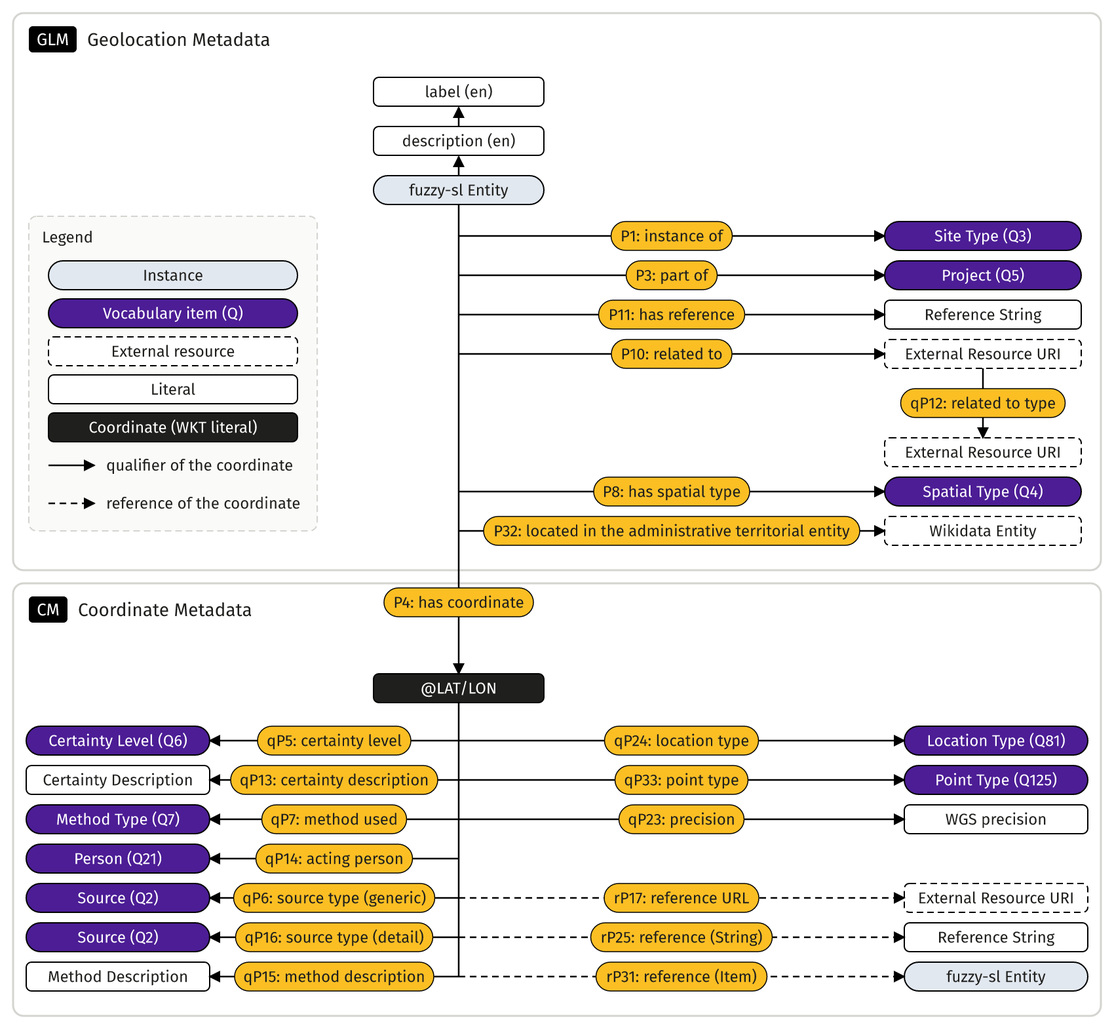
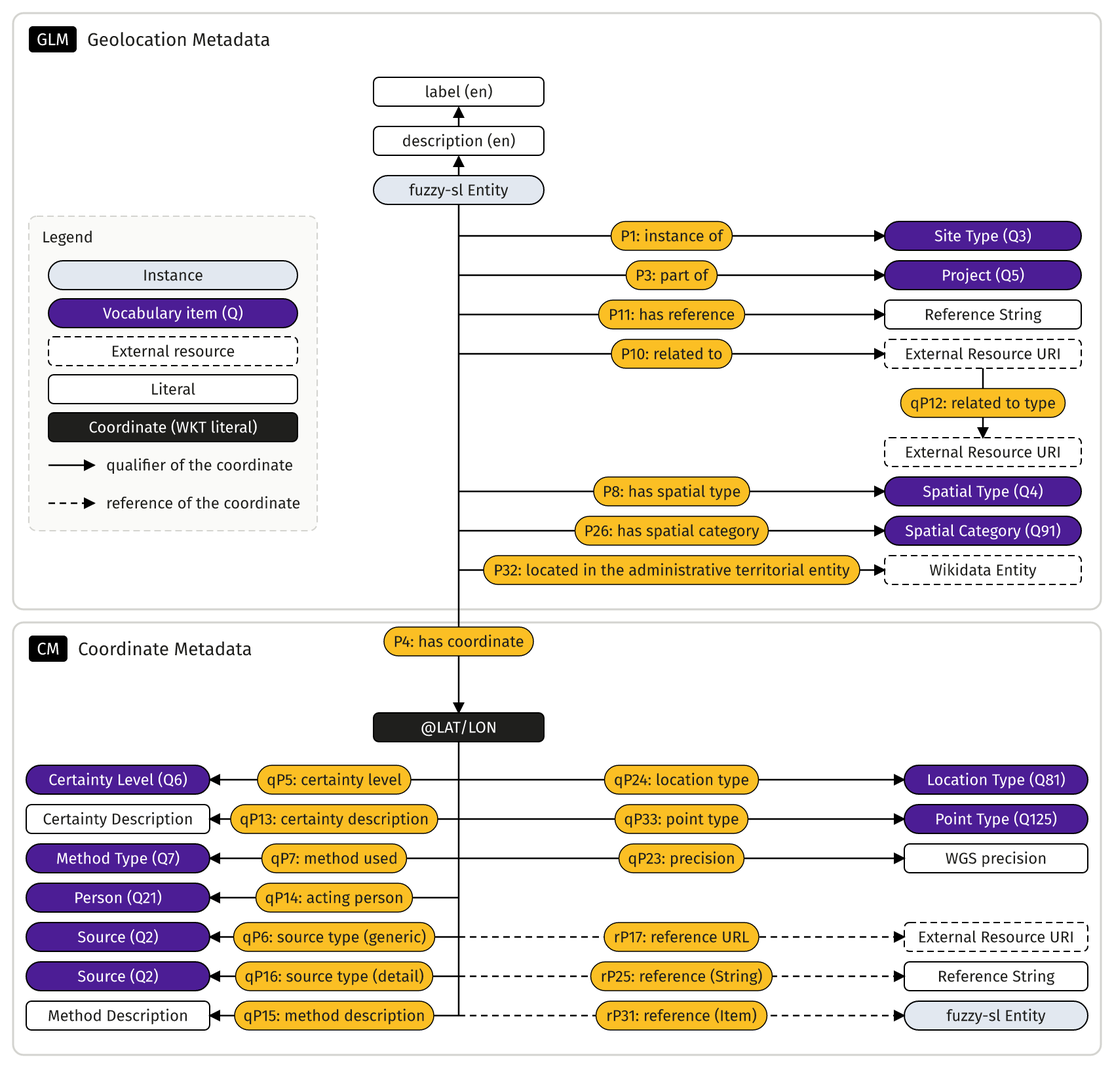
deRSE26: Fig. 3 with P26 spatial category; z2 wraps long Wikidata label
Claude-Session: https://claude.ai/code/session_0145BdeBL6JEDb3HE12Py9VZ

diff --git a/deRSE26/figures/gallery.html b/deRSE26/figures/gallery.html
@@ -14,9 +14,9 @@ figure.new{border-color:#c2410c;background:#fff}figcaption{font-weight:500;color
 #lb{position:fixed;inset:0;background:rgba(0,0,0,.88);display:none;align-items:center;justify-content:center;z-index:9;cursor:zoom-out;overflow:auto}#lb img{max-width:96vw;max-height:96vh;background:#fff}
 @media(max-width:900px){.pair{grid-template-columns:1fr}}
 </style></head><body>
-<header><h1>From Relations to Graphs: figures, submitted and new</h1><div class="meta">deRSE26 / ECEASST, revision of November 2026. Generated 25.11.2026 11:37. Click an image to enlarge, Esc or click to close.</div></header>
+<header><h1>From Relations to Graphs: figures, submitted and new</h1><div class="meta">deRSE26 / ECEASST, revision of November 2026. Generated 25.11.2026 11:42. Click an image to enlarge, Esc or click to close.</div></header>
 <main><table><tr><td><b>No.</b></td><td><b>Figure</b></td><td><b>Section</b></td><td><b>Status</b></td></tr><tr><td><a href="#fig1">Fig. 1</a></td><td>Federated Knowledge Graph Ecosystem</td><td>§1 Introduction</td><td><span class="chip" style="background:#55544f">keep as submitted</span></td></tr><tr><td><a href="#fig2">Fig. 2</a></td><td>Ogham stone in Wikidata and the fuzzy-sl Wikibase</td><td>§5.1 Wikidata</td><td><span class="chip" style="background:#55544f">keep as submitted</span></td></tr><tr><td><a href="#fig3">Fig. 3</a></td><td>Schematic data model of the fuzzy-sl Wikibase</td><td>§5.2 fuzzy-sl</td><td><span class="chip" style="background:#166534">new figure ready</span></td></tr><tr><td><a href="#fig4">Fig. 4</a></td><td>Campanian Ignimbrite findspots in the fuzzy-sl Wikibase</td><td>§5.2 fuzzy-sl</td><td><span class="chip" style="background:#166534">new figure ready</span></td></tr><tr><td><a href="#fig5">Fig. 5</a></td><td>The bb5kbc ontology</td><td>§5.3 BB-5KBC</td><td><span class="chip" style="background:#55544f">keep as submitted</span></td></tr><tr><td><a href="#fig6">Fig. 6</a></td><td>Ontology scheme of the palaeoclimate pipeline</td><td>§5.4 Pipeline</td><td><span class="chip" style="background:#166534">new figure ready</span></td></tr><tr><td><a href="#fig7">Fig. 7</a></td><td>CI instances</td><td>§5.4 Pipeline</td><td><span class="chip" style="background:#166534">new figure ready</span></td></tr><tr><td><a href="#fig8">Fig. 8</a></td><td>Big Exchange meta path</td><td>§5.6 HIN</td><td><span class="chip" style="background:#55544f">keep as submitted</span></td></tr><tr><td><a href="#fig9">Fig. 9</a></td><td>ArNO ontology modules</td><td>§5.7 HIN to KG</td><td><span class="chip" style="background:#55544f">keep as submitted</span></td></tr><tr><td><a href="#fig10">Fig. 10</a></td><td>Mapping of HIN node types to ArNO classes</td><td>§5.7 HIN to KG</td><td><span class="chip" style="background:#9a3412">to do</span></td></tr><tr><td><a href="#z2">Z2</a></td><td>One Ogham stone in five modelling styles</td><td>§3 or §4 (placement open)</td><td><span class="chip" style="background:#b45309">waiting for data</span></td></tr><tr><td><a href="#z3">Z3</a></td><td>Where the showcases are</td><td>§5 (overview)</td><td><span class="chip" style="background:#166534">new figure ready</span></td></tr></table>
-<section id="fig1"><h2><span class="num">Fig. 1</span> Federated Knowledge Graph Ecosystem <span class="chip" style="background:#55544f">keep as submitted</span></h2><p class="sec">§1 Introduction</p><div class="pair"><figure><figcaption>Submitted</figcaption><a href="gallery/old/fkge.jpg" class="zoom "><img loading="lazy" src="gallery/old/fkge.jpg" alt="Federated Knowledge Graph Ecosystem"></a><p class="cap">Scheme of the Federated Knowledge Graph Ecosystem. Licence -- Florian Thiery &amp; Andreas Noback, CC BY 4.0</p></figure><figure class="new none"><figcaption>New</figcaption><div class="empty">no new version yet</div></figure></div><ul><li>Source: thiery_stones_2026, Fig. 1</li><li>Typo &quot;Publikation&quot; in the image (to be fixed at the source)</li></ul></section><section id="fig2"><h2><span class="num">Fig. 2</span> Ogham stone in Wikidata and the fuzzy-sl Wikibase <span class="chip" style="background:#55544f">keep as submitted</span></h2><p class="sec">§5.1 Wikidata</p><div class="pair"><figure><figcaption>Submitted</figcaption><a href="gallery/old/ogham-wikidata.jpg" class="zoom "><img loading="lazy" src="gallery/old/ogham-wikidata.jpg" alt="Ogham stone in Wikidata and the fuzzy-sl Wikibase"></a><p class="cap">Ogham Stone CIIC 81 and its spatial locations in Wikidata and the fuzzy-sl Wikibase. Licence -- Florian Thiery, CC BY 4.0; (A) Wikidata Community, Public Domain; (B) Florian Thiery, CC BY-NC-SA 4.0; (C/E) Research Squirrel Engineers Network, CC BY 4.0; (E) \copyright~\&#x27;O R\&#x27;{\i}ord\&#x27;ain and Ryan; (F) OpenStreetMap Contributors, Open Database License.</p></figure><figure class="new none"><figcaption>New</figcaption><div class="empty">no new version yet</div></figure></div><ul><li>Screenshots; z2 (below) can complement it as a model comparison</li><li>Reviewer C refers to &quot;Section 5, Figure 2&quot;: probably this figure (assumption)</li></ul></section><section id="fig3"><h2><span class="num">Fig. 3</span> Schematic data model of the fuzzy-sl Wikibase <span class="chip" style="background:#166534">new figure ready</span></h2><p class="sec">§5.2 fuzzy-sl</p><div class="pair"><figure><figcaption>Submitted</figcaption><a href="gallery/old/fuzzy-sl_Wikibase.jpg" class="zoom "><img loading="lazy" src="gallery/old/fuzzy-sl_Wikibase.jpg" alt="Schematic data model of the fuzzy-sl Wikibase"></a><p class="cap">Schematic data model of the fuzzy-sl Wikibase. License -- Florian Thiery, CC BY 4.0.</p></figure><figure class="new"><figcaption>New</figcaption><a href="out/fig3_fuzzysl_datamodel.png" class="zoom "><img loading="lazy" src="out/fig3_fuzzysl_datamodel.png" alt="Schematic data model of the fuzzy-sl Wikibase"></a><p class="cap">Data model of the fuzzy-sl Wikibase. (GLM) Geolocation metadata: a fuzzy-sl entity has a label and a description and is described by its instance type (P1), project (P3), literature reference (P11), related external resource with its relation type (P10, qP12), spatial type (P8), the administrative territorial entity in Wikidata (P32) and its coordinate (P4). (CM) Coordinate metadata: the coordinate statement carries ten qualifiers (solid arrows: certainty level and description, method used and description, acting person, source type in generic and detailed form, location type, point type and precision) and three reference properties (dashed arrows: reference URL, reference string, reference item). Grey: instance; purple: vocabulary item with its Q number; dashed outline: external resource; white: literal; black: coordinate. Property labels and classes are those of the static copy of the fuzzy-sl Wikibase. Licence: Florian Thiery, CC BY 4.0.</p></figure></div><ul><li>Redrawn after the old picture (same nodes, properties and arrows); labels, datatypes and classes read from the static Wikibase copy</li><li>Same model as Fig. 4B of Thiery et al. 2026 (JOHD 12:10); the old picture omits P26 (has spatial category), which Q70 carries</li><li>Layout stacked (GLM above CM) because 24 px type needs the width; the old picture placed CM left of GLM</li></ul></section><section id="fig4"><h2><span class="num">Fig. 4</span> Campanian Ignimbrite findspots in the fuzzy-sl Wikibase <span class="chip" style="background:#166534">new figure ready</span></h2><p class="sec">§5.2 fuzzy-sl</p><div class="pair"><figure><figcaption>Submitted</figcaption><a href="gallery/old/ci-fuzzy-sl-wikibase.jpg" class="zoom "><img loading="lazy" src="gallery/old/ci-fuzzy-sl-wikibase.jpg" alt="Campanian Ignimbrite findspots in the fuzzy-sl Wikibase"></a><p class="cap">Geospatial modelling of Campanian Ignimbrite Findspots within the fuzzy-sl Wikibase. Licence -- Florian Thiery &amp; Fiona Schenk, CC BY 4.0; OSM maps: OpenStreetMap Contributors, Open Database License.</p></figure><figure class="new"><figcaption>New</figcaption><a href="out/fig4_ci_findspots.png" class="zoom "><img loading="lazy" src="out/fig4_ci_findspots.png" alt="Campanian Ignimbrite findspots in the fuzzy-sl Wikibase"></a><p class="cap">Campanian Ignimbrite findspots in the geo-lod graph and one coordinate statement in the fuzzy-sl Wikibase. (A) The 74 findspots, distinguished by whether they are typed as archaeological sites (12) or not (62); dashed rings mark 500 km and 1000 km from the Phlegraean Fields, the source area of the eruption. (B) The coordinate statement of Auel Maar AU3 (Q70) with its qualifiers: certainty level and description, method, acting person, source type, precision, location and point type, and the literature reference. Purple: vocabulary terms; grey: items; white: literals. The inset map shows the Eifel around the Auel Maar with rivers, borders, Cologne and Daun. Licence: Florian Thiery and Fiona Schenk, CC BY 4.0; base map: Natural Earth, public domain.</p></figure></div><ul><li>v3: archaeology vs. other, Auel Maar AU3 from the static Wikibase copy, minimap</li><li>Static Wikibase has 19 CI items, the graph 74</li></ul></section><section id="fig5"><h2><span class="num">Fig. 5</span> The bb5kbc ontology <span class="chip" style="background:#55544f">keep as submitted</span></h2><p class="sec">§5.3 BB-5KBC</p><div class="pair"><figure><figcaption>Submitted</figcaption><a href="gallery/old/bb-5kbc-ontology.jpg" class="zoom "><img loading="lazy" src="gallery/old/bb-5kbc-ontology.jpg" alt="The bb5kbc ontology"></a><p class="cap">The bb5kbc Ontology. Licence -- Florian Thiery &amp; Sophie C. Schmidt, CC BY 4.0.</p></figure><figure class="new none"><figcaption>New</figcaption><div class="empty">no new version yet</div></figure></div><ul><li>Check the triple counts against the repository</li></ul></section><section id="fig6"><h2><span class="num">Fig. 6</span> Ontology scheme of the palaeoclimate pipeline <span class="chip" style="background:#166534">new figure ready</span></h2><p class="sec">§5.4 Pipeline</p><div class="pair"><figure><figcaption>Submitted</figcaption><a href="gallery/old/taxonomy.jpg" class="zoom "><img loading="lazy" src="gallery/old/taxonomy.jpg" alt="Ontology scheme of the palaeoclimate pipeline"></a><p class="cap">Ontology Scheme of the Palaeoclimate Data Processing Pipeline (GeoSciece-FAIRification-LOD). Licence -- Florian Thiery &amp; Fiona Schenk, CC BY 4.0.</p></figure><figure class="new"><figcaption>New</figcaption><a href="out/fig6_place_taxonomy.png" class="zoom "><img loading="lazy" src="out/fig6_place_taxonomy.png" alt="Ontology scheme of the palaeoclimate pipeline"></a><p class="cap">Modelling places in the geo-lod ontologies. (A) The place classes and their anchors in CIDOC CRM, CRMarchaeo and fuzzy-sl; hollow arrows are rdfs:subClassOf statements of the ontology files (geo_lod_core.ttl, crm_bridging.ttl, sisal_ontology.ttl, epica_ontology.ttl). Sampling locations (drilling site, borehole, cave) and Campanian Ignimbrite findspots both specialise crm:E27_Site; the archaeological variants additionally inherit from crmarchaeo:A2_Stratigraphic_Volume_Unit. (B) The geometry of a place: a geo:Feature has a geo:Geometry (sf:Point, which CRMgeo reads as a declarative place; its inheritance from geo:Geometry is defined by GeoSPARQL and Simple Features, not by the ontology files) whose coordinates are a geo:wktLiteral. Dark orange: classes of the geo-lod ontologies; white: external classes; amber: property. Licence: Florian Thiery and Fiona Schenk, CC BY 4.0.</p></figure></div><ul><li>Slice: place classes and geometry pattern; the full scheme could move to the supplement</li><li>&quot;GeoSciece&quot; typo disappears with the new figure</li></ul></section><section id="fig7"><h2><span class="num">Fig. 7</span> CI instances <span class="chip" style="background:#166534">new figure ready</span></h2><p class="sec">§5.4 Pipeline</p><div class="pair"><figure><figcaption>Submitted</figcaption><a href="gallery/old/instance_ci.jpg" class="zoom "><img loading="lazy" src="gallery/old/instance_ci.jpg" alt="CI instances"></a><p class="cap">CI Instances Scheme. Licence -- Florian Thiery &amp; Fiona Schenk, CC BY 4.0.</p></figure><figure class="new"><figcaption>New</figcaption><a href="out/fig7_ci_instances.png" class="zoom "><img loading="lazy" src="out/fig7_ci_instances.png" alt="CI instances"></a><p class="cap">Two Campanian Ignimbrite findspots as instances in the geo-lod graph: (A) Toplitsa Cave (Bulgaria, ci:cisite_44) and (B) Franchthi Cave (Greece, ci:cisite_45). Both are typed as fsl:Site and geolod:CIArchaeologicalSite (a selection of their types is shown), carry the geometry as an sf:Point with a geo:asWKT literal and the fuzzy-sl certainty level, certainty description and literature reference, are aligned to Wikidata and OpenStreetMap via skos:closeMatch, and name the pipeline activity that generated them. The coordinate reference system prefix of the WKT literal is omitted. Colours: dark orange classes, purple vocabulary terms, grey instances, white literals. Minimaps: all 74 findspots (filled: archaeological site), the findspot of the panel ringed in red; country borders and major rivers from Natural Earth. Licence: Florian Thiery and Fiona Schenk, CC BY 4.0.</p></figure></div><ul><li>Toplitsa and Franchthi, every value read from the graph</li><li>Text says 9 archaeological sites, the graph has 12</li></ul></section><section id="fig8"><h2><span class="num">Fig. 8</span> Big Exchange meta path <span class="chip" style="background:#55544f">keep as submitted</span></h2><p class="sec">§5.6 HIN</p><div class="pair"><figure><figcaption>Submitted</figcaption><a href="gallery/old/BigExchangeMetaPath.jpg" class="zoom "><img loading="lazy" src="gallery/old/BigExchangeMetaPath.jpg" alt="Big Exchange meta path"></a><p class="cap">The meta path connecting two materials through finds of these materials that are found in sites with geolocations that share a spatially similar geolocation. Licence -- Mattis thor Straten et al., CC BY 4.0.</p></figure><figure class="new none"><figcaption>New</figcaption><div class="empty">no new version yet</div></figure></div><ul><li>From thor Straten et al. (CC BY 4.0); keeps its own look</li></ul></section><section id="fig9"><h2><span class="num">Fig. 9</span> ArNO ontology modules <span class="chip" style="background:#55544f">keep as submitted</span></h2><p class="sec">§5.7 HIN to KG</p><div class="pair"><figure><figcaption>Submitted</figcaption><a href="gallery/old/ARNO.jpg" class="zoom "><img loading="lazy" src="gallery/old/ARNO.jpg" alt="ArNO ontology modules"></a><p class="cap">The ontologies combined in the ArNO ontology grouped by the concept domain they are used for. Licence -- Mattis thor Straten et al., CC BY 4.0.</p></figure><figure class="new none"><figcaption>New</figcaption><div class="empty">no new version yet</div></figure></div><ul><li>Low resolution (644 x 671 px): ask for a better source</li></ul></section><section id="fig10"><h2><span class="num">Fig. 10</span> Mapping of HIN node types to ArNO classes <span class="chip" style="background:#9a3412">to do</span></h2><p class="sec">§5.7 HIN to KG</p><div class="pair"><figure><figcaption>Submitted</figcaption><a href="gallery/old/ARNONetworkSchema.jpg" class="zoom "><img loading="lazy" src="gallery/old/ARNONetworkSchema.jpg" alt="Mapping of HIN node types to ArNO classes"></a><p class="cap">The mapping of the spatial node types of the HIN networks schema (on the right) to the hierarchical ArNO ontology classes. Licence -- Mattis thor Straten et al., CC BY 4.0.</p></figure><figure class="new none"><figcaption>New</figcaption><div class="empty">no new version yet</div></figure></div><ul><li>Redraw or re-use the source after checking the licence</li></ul></section><section id="z2"><h2><span class="num">New Z2</span> One Ogham stone in five modelling styles <span class="chip" style="background:#b45309">waiting for data</span></h2><p class="sec">§3 or §4 (placement open)</p><div class="pair single"><figure class="new"><a href="out/z2_one_stone_five_models.png" class="zoom "><img loading="lazy" src="out/z2_one_stone_five_models.png" alt="One Ogham stone in five modelling styles"></a><p class="cap">One coordinate in five modelling styles, shown for the Ogham stone Coumeenole North (Macalister 1945, textual description). (A) Wikidata: coordinate location with its qualifiers. (B) fuzzy-sl Wikibase: the coordinate statement carries certainty level, method, precision and location type as qualifiers. (C) RDF with GeoSPARQL: the point is a geo:asWKT literal of a geometry resource. (D) Labelled property graph: the point is a property of the node. (E) Heterogeneous information network: the point is a node of its own, so that nearby geolocations can be linked by distance classes. Red outline: where the coordinate sits. Data: Wikidata (CC0), fuzzy-sl Wikibase, Florian Thiery, CC BY 4.0.</p></figure></div><ul><li>Panel A needs data/wd/ from fetch_wd.py (done on the Windows machine)</li></ul></section><section id="z3"><h2><span class="num">New Z3</span> Where the showcases are <span class="chip" style="background:#166534">new figure ready</span></h2><p class="sec">§5 (overview)</p><div class="pair single"><figure class="new"><a href="out/z3_showcase_map.png" class="zoom "><img loading="lazy" src="out/z3_showcase_map.png" alt="Where the showcases are"></a><p class="cap">Where the spatial showcases are. (A) Europe and the Mediterranean: coordinate statements of the fuzzy-sl Wikibase (61; Ogham stones, Roman Britain, Bruttium coin finds, Campanian Ignimbrite and others), the Campanian Ignimbrite findspots of the geo-lod graph (74) and the BB-5KBC findspots (540). (B) The 365 SISAL caves of the geo-lod graph; the red frame marks panel A. The property-graph and HIN showcases are not mapped because they have no point dataset of their own. Base map: Natural Earth, public domain.</p></figure></div><ul><li>Colour = infrastructure (Wikibase vs. bespoke RDF pipeline); LPG and HIN showcases have no point data</li></ul></section><section id="unused"><h2><span class="num">Not used</span> Map of the Moselle (not referenced in the LaTeX source)</h2><div class="pair single"><figure><a href="gallery/old/moselkarte.jpg" class="zoom "><img loading="lazy" src="gallery/old/moselkarte.jpg" alt="Map of the Moselle (not referenced in the LaTeX source)"></a></figure></div><ul><li>Decision pending: drop it or use it as an orientation map</li></ul></section></main>
+<section id="fig1"><h2><span class="num">Fig. 1</span> Federated Knowledge Graph Ecosystem <span class="chip" style="background:#55544f">keep as submitted</span></h2><p class="sec">§1 Introduction</p><div class="pair"><figure><figcaption>Submitted</figcaption><a href="gallery/old/fkge.jpg" class="zoom "><img loading="lazy" src="gallery/old/fkge.jpg" alt="Federated Knowledge Graph Ecosystem"></a><p class="cap">Scheme of the Federated Knowledge Graph Ecosystem. Licence -- Florian Thiery &amp; Andreas Noback, CC BY 4.0</p></figure><figure class="new none"><figcaption>New</figcaption><div class="empty">no new version yet</div></figure></div><ul><li>Source: thiery_stones_2026, Fig. 1</li><li>Typo &quot;Publikation&quot; in the image (to be fixed at the source)</li></ul></section><section id="fig2"><h2><span class="num">Fig. 2</span> Ogham stone in Wikidata and the fuzzy-sl Wikibase <span class="chip" style="background:#55544f">keep as submitted</span></h2><p class="sec">§5.1 Wikidata</p><div class="pair"><figure><figcaption>Submitted</figcaption><a href="gallery/old/ogham-wikidata.jpg" class="zoom "><img loading="lazy" src="gallery/old/ogham-wikidata.jpg" alt="Ogham stone in Wikidata and the fuzzy-sl Wikibase"></a><p class="cap">Ogham Stone CIIC 81 and its spatial locations in Wikidata and the fuzzy-sl Wikibase. Licence -- Florian Thiery, CC BY 4.0; (A) Wikidata Community, Public Domain; (B) Florian Thiery, CC BY-NC-SA 4.0; (C/E) Research Squirrel Engineers Network, CC BY 4.0; (E) \copyright~\&#x27;O R\&#x27;{\i}ord\&#x27;ain and Ryan; (F) OpenStreetMap Contributors, Open Database License.</p></figure><figure class="new none"><figcaption>New</figcaption><div class="empty">no new version yet</div></figure></div><ul><li>Screenshots; z2 (below) can complement it as a model comparison</li><li>Reviewer C refers to &quot;Section 5, Figure 2&quot;: probably this figure (assumption)</li></ul></section><section id="fig3"><h2><span class="num">Fig. 3</span> Schematic data model of the fuzzy-sl Wikibase <span class="chip" style="background:#166534">new figure ready</span></h2><p class="sec">§5.2 fuzzy-sl</p><div class="pair"><figure><figcaption>Submitted</figcaption><a href="gallery/old/fuzzy-sl_Wikibase.jpg" class="zoom "><img loading="lazy" src="gallery/old/fuzzy-sl_Wikibase.jpg" alt="Schematic data model of the fuzzy-sl Wikibase"></a><p class="cap">Schematic data model of the fuzzy-sl Wikibase. License -- Florian Thiery, CC BY 4.0.</p></figure><figure class="new"><figcaption>New</figcaption><a href="out/fig3_fuzzysl_datamodel.png" class="zoom "><img loading="lazy" src="out/fig3_fuzzysl_datamodel.png" alt="Schematic data model of the fuzzy-sl Wikibase"></a><p class="cap">Data model of the fuzzy-sl Wikibase. (GLM) Geolocation metadata: a fuzzy-sl entity has a label and a description and is described by its instance type (P1), project (P3), literature reference (P11), related external resource with its relation type (P10, qP12), spatial type (P8), spatial category (P26), the administrative territorial entity in Wikidata (P32) and its coordinate (P4). (CM) Coordinate metadata: the coordinate statement carries ten qualifiers (solid arrows: certainty level and description, method used and description, acting person, source type in generic and detailed form, location type, point type and precision) and three reference properties (dashed arrows: reference URL, reference string, reference item). Grey: instance; purple: vocabulary item with its Q number; dashed outline: external resource; white: literal; black: coordinate. Property labels and classes are those of the static copy of the fuzzy-sl Wikibase. Licence: Florian Thiery, CC BY 4.0.</p></figure></div><ul><li>Redrawn after the old picture (same nodes, properties and arrows); labels, datatypes and classes read from the static Wikibase copy</li><li>Same model as Fig. 4B of Thiery et al. 2026 (JOHD 12:10); P26 (has spatial category) added because the old picture omitted it</li><li>Layout stacked (GLM above CM) because 24 px type needs the width; the old picture placed CM left of GLM</li></ul></section><section id="fig4"><h2><span class="num">Fig. 4</span> Campanian Ignimbrite findspots in the fuzzy-sl Wikibase <span class="chip" style="background:#166534">new figure ready</span></h2><p class="sec">§5.2 fuzzy-sl</p><div class="pair"><figure><figcaption>Submitted</figcaption><a href="gallery/old/ci-fuzzy-sl-wikibase.jpg" class="zoom "><img loading="lazy" src="gallery/old/ci-fuzzy-sl-wikibase.jpg" alt="Campanian Ignimbrite findspots in the fuzzy-sl Wikibase"></a><p class="cap">Geospatial modelling of Campanian Ignimbrite Findspots within the fuzzy-sl Wikibase. Licence -- Florian Thiery &amp; Fiona Schenk, CC BY 4.0; OSM maps: OpenStreetMap Contributors, Open Database License.</p></figure><figure class="new"><figcaption>New</figcaption><a href="out/fig4_ci_findspots.png" class="zoom "><img loading="lazy" src="out/fig4_ci_findspots.png" alt="Campanian Ignimbrite findspots in the fuzzy-sl Wikibase"></a><p class="cap">Campanian Ignimbrite findspots in the geo-lod graph and one coordinate statement in the fuzzy-sl Wikibase. (A) The 74 findspots, distinguished by whether they are typed as archaeological sites (12) or not (62); dashed rings mark 500 km and 1000 km from the Phlegraean Fields, the source area of the eruption. (B) The coordinate statement of Auel Maar AU3 (Q70) with its qualifiers: certainty level and description, method, acting person, source type, precision, location and point type, and the literature reference. Purple: vocabulary terms; grey: items; white: literals. The inset map shows the Eifel around the Auel Maar with rivers, borders, Cologne and Daun. Licence: Florian Thiery and Fiona Schenk, CC BY 4.0; base map: Natural Earth, public domain.</p></figure></div><ul><li>v3: archaeology vs. other, Auel Maar AU3 from the static Wikibase copy, minimap</li><li>Static Wikibase has 19 CI items, the graph 74</li></ul></section><section id="fig5"><h2><span class="num">Fig. 5</span> The bb5kbc ontology <span class="chip" style="background:#55544f">keep as submitted</span></h2><p class="sec">§5.3 BB-5KBC</p><div class="pair"><figure><figcaption>Submitted</figcaption><a href="gallery/old/bb-5kbc-ontology.jpg" class="zoom "><img loading="lazy" src="gallery/old/bb-5kbc-ontology.jpg" alt="The bb5kbc ontology"></a><p class="cap">The bb5kbc Ontology. Licence -- Florian Thiery &amp; Sophie C. Schmidt, CC BY 4.0.</p></figure><figure class="new none"><figcaption>New</figcaption><div class="empty">no new version yet</div></figure></div><ul><li>Check the triple counts against the repository</li></ul></section><section id="fig6"><h2><span class="num">Fig. 6</span> Ontology scheme of the palaeoclimate pipeline <span class="chip" style="background:#166534">new figure ready</span></h2><p class="sec">§5.4 Pipeline</p><div class="pair"><figure><figcaption>Submitted</figcaption><a href="gallery/old/taxonomy.jpg" class="zoom "><img loading="lazy" src="gallery/old/taxonomy.jpg" alt="Ontology scheme of the palaeoclimate pipeline"></a><p class="cap">Ontology Scheme of the Palaeoclimate Data Processing Pipeline (GeoSciece-FAIRification-LOD). Licence -- Florian Thiery &amp; Fiona Schenk, CC BY 4.0.</p></figure><figure class="new"><figcaption>New</figcaption><a href="out/fig6_place_taxonomy.png" class="zoom "><img loading="lazy" src="out/fig6_place_taxonomy.png" alt="Ontology scheme of the palaeoclimate pipeline"></a><p class="cap">Modelling places in the geo-lod ontologies. (A) The place classes and their anchors in CIDOC CRM, CRMarchaeo and fuzzy-sl; hollow arrows are rdfs:subClassOf statements of the ontology files (geo_lod_core.ttl, crm_bridging.ttl, sisal_ontology.ttl, epica_ontology.ttl). Sampling locations (drilling site, borehole, cave) and Campanian Ignimbrite findspots both specialise crm:E27_Site; the archaeological variants additionally inherit from crmarchaeo:A2_Stratigraphic_Volume_Unit. (B) The geometry of a place: a geo:Feature has a geo:Geometry (sf:Point, which CRMgeo reads as a declarative place; its inheritance from geo:Geometry is defined by GeoSPARQL and Simple Features, not by the ontology files) whose coordinates are a geo:wktLiteral. Dark orange: classes of the geo-lod ontologies; white: external classes; amber: property. Licence: Florian Thiery and Fiona Schenk, CC BY 4.0.</p></figure></div><ul><li>Slice: place classes and geometry pattern; the full scheme could move to the supplement</li><li>&quot;GeoSciece&quot; typo disappears with the new figure</li></ul></section><section id="fig7"><h2><span class="num">Fig. 7</span> CI instances <span class="chip" style="background:#166534">new figure ready</span></h2><p class="sec">§5.4 Pipeline</p><div class="pair"><figure><figcaption>Submitted</figcaption><a href="gallery/old/instance_ci.jpg" class="zoom "><img loading="lazy" src="gallery/old/instance_ci.jpg" alt="CI instances"></a><p class="cap">CI Instances Scheme. Licence -- Florian Thiery &amp; Fiona Schenk, CC BY 4.0.</p></figure><figure class="new"><figcaption>New</figcaption><a href="out/fig7_ci_instances.png" class="zoom "><img loading="lazy" src="out/fig7_ci_instances.png" alt="CI instances"></a><p class="cap">Two Campanian Ignimbrite findspots as instances in the geo-lod graph: (A) Toplitsa Cave (Bulgaria, ci:cisite_44) and (B) Franchthi Cave (Greece, ci:cisite_45). Both are typed as fsl:Site and geolod:CIArchaeologicalSite (a selection of their types is shown), carry the geometry as an sf:Point with a geo:asWKT literal and the fuzzy-sl certainty level, certainty description and literature reference, are aligned to Wikidata and OpenStreetMap via skos:closeMatch, and name the pipeline activity that generated them. The coordinate reference system prefix of the WKT literal is omitted. Colours: dark orange classes, purple vocabulary terms, grey instances, white literals. Minimaps: all 74 findspots (filled: archaeological site), the findspot of the panel ringed in red; country borders and major rivers from Natural Earth. Licence: Florian Thiery and Fiona Schenk, CC BY 4.0.</p></figure></div><ul><li>Toplitsa and Franchthi, every value read from the graph</li><li>Text says 9 archaeological sites, the graph has 12</li></ul></section><section id="fig8"><h2><span class="num">Fig. 8</span> Big Exchange meta path <span class="chip" style="background:#55544f">keep as submitted</span></h2><p class="sec">§5.6 HIN</p><div class="pair"><figure><figcaption>Submitted</figcaption><a href="gallery/old/BigExchangeMetaPath.jpg" class="zoom "><img loading="lazy" src="gallery/old/BigExchangeMetaPath.jpg" alt="Big Exchange meta path"></a><p class="cap">The meta path connecting two materials through finds of these materials that are found in sites with geolocations that share a spatially similar geolocation. Licence -- Mattis thor Straten et al., CC BY 4.0.</p></figure><figure class="new none"><figcaption>New</figcaption><div class="empty">no new version yet</div></figure></div><ul><li>From thor Straten et al. (CC BY 4.0); keeps its own look</li></ul></section><section id="fig9"><h2><span class="num">Fig. 9</span> ArNO ontology modules <span class="chip" style="background:#55544f">keep as submitted</span></h2><p class="sec">§5.7 HIN to KG</p><div class="pair"><figure><figcaption>Submitted</figcaption><a href="gallery/old/ARNO.jpg" class="zoom "><img loading="lazy" src="gallery/old/ARNO.jpg" alt="ArNO ontology modules"></a><p class="cap">The ontologies combined in the ArNO ontology grouped by the concept domain they are used for. Licence -- Mattis thor Straten et al., CC BY 4.0.</p></figure><figure class="new none"><figcaption>New</figcaption><div class="empty">no new version yet</div></figure></div><ul><li>Low resolution (644 x 671 px): ask for a better source</li></ul></section><section id="fig10"><h2><span class="num">Fig. 10</span> Mapping of HIN node types to ArNO classes <span class="chip" style="background:#9a3412">to do</span></h2><p class="sec">§5.7 HIN to KG</p><div class="pair"><figure><figcaption>Submitted</figcaption><a href="gallery/old/ARNONetworkSchema.jpg" class="zoom "><img loading="lazy" src="gallery/old/ARNONetworkSchema.jpg" alt="Mapping of HIN node types to ArNO classes"></a><p class="cap">The mapping of the spatial node types of the HIN networks schema (on the right) to the hierarchical ArNO ontology classes. Licence -- Mattis thor Straten et al., CC BY 4.0.</p></figure><figure class="new none"><figcaption>New</figcaption><div class="empty">no new version yet</div></figure></div><ul><li>Redraw or re-use the source after checking the licence</li></ul></section><section id="z2"><h2><span class="num">New Z2</span> One Ogham stone in five modelling styles <span class="chip" style="background:#b45309">waiting for data</span></h2><p class="sec">§3 or §4 (placement open)</p><div class="pair single"><figure class="new"><a href="out/z2_one_stone_five_models.png" class="zoom "><img loading="lazy" src="out/z2_one_stone_five_models.png" alt="One Ogham stone in five modelling styles"></a><p class="cap">One coordinate in five modelling styles, shown for the Ogham stone Coumeenole North (Macalister 1945, textual description). (A) Wikidata: coordinate location with its qualifiers. (B) fuzzy-sl Wikibase: the coordinate statement carries certainty level, method, precision and location type as qualifiers. (C) RDF with GeoSPARQL: the point is a geo:asWKT literal of a geometry resource. (D) Labelled property graph: the point is a property of the node. (E) Heterogeneous information network: the point is a node of its own, so that nearby geolocations can be linked by distance classes. Red outline: where the coordinate sits. Data: Wikidata (CC0), fuzzy-sl Wikibase, Florian Thiery, CC BY 4.0.</p></figure></div><ul><li>Panel A needs data/wd/ from fetch_wd.py (done on the Windows machine)</li></ul></section><section id="z3"><h2><span class="num">New Z3</span> Where the showcases are <span class="chip" style="background:#166534">new figure ready</span></h2><p class="sec">§5 (overview)</p><div class="pair single"><figure class="new"><a href="out/z3_showcase_map.png" class="zoom "><img loading="lazy" src="out/z3_showcase_map.png" alt="Where the showcases are"></a><p class="cap">Where the spatial showcases are. (A) Europe and the Mediterranean: coordinate statements of the fuzzy-sl Wikibase (61; Ogham stones, Roman Britain, Bruttium coin finds, Campanian Ignimbrite and others), the Campanian Ignimbrite findspots of the geo-lod graph (74) and the BB-5KBC findspots (540). (B) The 365 SISAL caves of the geo-lod graph; the red frame marks panel A. The property-graph and HIN showcases are not mapped because they have no point dataset of their own. Base map: Natural Earth, public domain.</p></figure></div><ul><li>Colour = infrastructure (Wikibase vs. bespoke RDF pipeline); LPG and HIN showcases have no point data</li></ul></section><section id="unused"><h2><span class="num">Not used</span> Map of the Moselle (not referenced in the LaTeX source)</h2><div class="pair single"><figure><a href="gallery/old/moselkarte.jpg" class="zoom "><img loading="lazy" src="gallery/old/moselkarte.jpg" alt="Map of the Moselle (not referenced in the LaTeX source)"></a></figure></div><ul><li>Decision pending: drop it or use it as an orientation map</li></ul></section></main>
 <div id="lb"><img alt=""></div>
 <script>const lb=document.getElementById('lb'),li=lb.querySelector('img');document.querySelectorAll('a.zoom').forEach(a=>a.addEventListener('click',e=>{e.preventDefault();li.src=a.href;lb.style.display='flex'}));lb.addEventListener('click',()=>lb.style.display='none');document.addEventListener('keydown',e=>{if(e.key==='Escape')lb.style.display='none'});</script>
 </body></html>

diff --git a/deRSE26/figures/figs.py b/deRSE26/figures/figs.py
@@ -340,8 +340,9 @@ def z2():
         lines = [f"{round(cv['latitude'], 4)}, {round(cv['longitude'], 4)}"]
         for qp, sn in c.get('qualifiers', {}).items():
             vv = sn[0]['datavalue']['value']; lines.append(f"{lab(qp)}: " + (lab(vv['id']) if isinstance(vv, dict) and 'id' in vv else str(vv)))
-        f.box(x0, y + 90, w, 96, INST, [wd['labels']['en']['value'], 'Q126503090'])
-        f.arrow(cx, y + 186, cx, y + 290); f.chip(cx, y + 238, 'coordinate location')
+        wl = wd['labels']['en']['value'].split(' / ') + ['Q126503090']
+        f.box(x0, y + 90, w, 30 + 31 * len(wl), INST, wl)
+        f.arrow(cx, y + 120 + 31 * len(wl), cx, y + 290); f.chip(cx, y + (120 + 31 * len(wl) + 290) / 2, 'coordinate location')
         f.box(x0, y + 290, w, 60 + 36 * len(lines), '#fff', lines, stroke=RED, sw=4)
     else:
         f.box(x0, y + 90, w, 200, '#fff', ['data/wd/ missing:', 'run fetch_wd.py'], stroke=RED, sw=4, dash=True)
@@ -538,7 +539,7 @@ def fig3():
         if d == 'url': return 'External Resource URI', 'ext'
         raise ValueError(p)
     GM = ['P1', 'P3', 'P11', 'P10']                     # main statements of the entity (picture order), then P8 and P32
-    for p in GM + ['P8', 'P32']: assert p in cl, p
+    for p in GM + ['P8', 'P26', 'P32']: assert p in cl, p
     assert 'P12' in cl['P10'][0]['qualifiers'] and wb_entity('P12')['datatype'] == 'url'
     assert 'wikidata.org/entity/' in cl['P32'][0]['mainsnak']['datavalue']['value']
     assert 'P17' in cl['P11'][0]['references'][0]['snaks']
@@ -549,7 +550,7 @@ def fig3():
     GZ = chip_max + 76                                   # zone between bus and the value nodes on the right
     GW = 300
     assert BX + GZ + GW <= 1660, (BX + GZ + GW)
-    f = Fig('fig3_fuzzysl_datamodel', 1570)
+    f = Fig('fig3_fuzzysl_datamodel', 1630)
     FILL = {'inst': (INST, INK, False), 'term': (TERM, '#fff', False), 'ext': ('#fff', INK, True), 'lit': ('#fff', INK, False), 'wkt': (INK, '#fff', False)}
     def node(x, cy, w, text, kind):
         fill, tc, dash = FILL[kind]
@@ -569,11 +570,11 @@ def fig3():
         f.o.append(f'<rect x="20" y="{y0}" width="1660" height="{y1 - y0}" rx="16" fill="none" stroke="#d4d4d0" stroke-width="3"/>')
 
     # ---- GLM (top)
-    frame(20, 870); title(44, 40, 'GLM', 'Geolocation Metadata')
+    frame(20, 930); title(44, 40, 'GLM', 'Geolocation Metadata')
     yl, yd, ye = 140, 215, 290
     node(BX - 130, yl, 260, 'label (en)', 'lit'); node(BX - 130, yd, 260, 'description (en)', 'lit'); node(BX - 130, ye, 260, 'fuzzy-sl Entity', 'inst')
     line(BX, ye - NH / 2, BX, yd + NH / 2 + 2); line(BX, yd - NH / 2, BX, yl + NH / 2 + 2)
-    rows = [(360, 'P1'), (420, 'P3'), (480, 'P11'), (540, 'P10'), (750, 'P8'), (810, 'P32')]
+    rows = [(360, 'P1'), (420, 'P3'), (480, 'P11'), (540, 'P10'), (750, 'P8'), (810, 'P26'), (870, 'P32')]
     y_p12 = 690
     line(BX, ye + NH / 2, BX, rows[-1][0], arrow=False)
     tx = BX + GZ
@@ -597,11 +598,11 @@ def fig3():
         line(lx0 + 30, y, lx0 + 100, y, d); f.text(lx0 + 118, y + 8, t, 24, 400, INK, 'start', maxw=lw - 130)
 
     # ---- CM (bottom)
-    frame(890, 1550); title(44, 910, 'CM', 'Coordinate Metadata')
-    yc = 1050
+    frame(950, 1610); title(44, 970, 'CM', 'Coordinate Metadata')
+    yc = 1110
     node(BX - 130, yc, 260, '@LAT/LON', 'wkt')
     edge(BX, rows[-1][0], BX, yc - NH / 2, pr('', 'P4'))
-    r0 = 1130; pitch = 60
+    r0 = 1190; pitch = 60
     line(BX, yc + NH / 2, BX, r0 + 6 * pitch, arrow=False)
     NW = 280; lxn, rxn = 40, 1700 - 40 - NW
     def cmrow(i, side, p, dashed):
